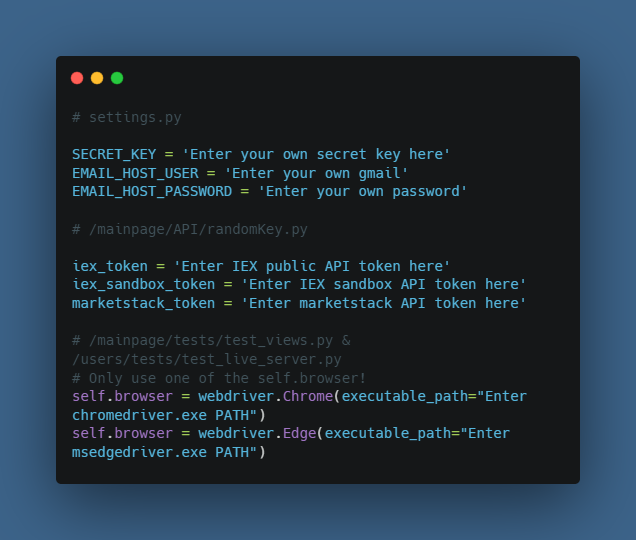
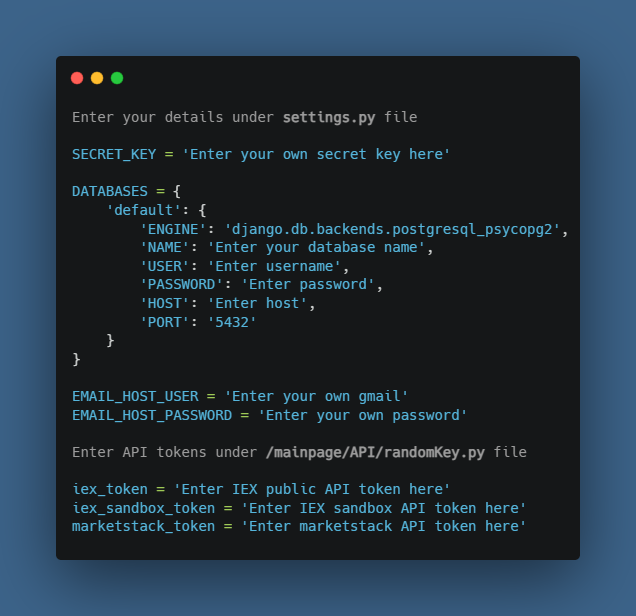
Update files for Heroku
Change credentials, update current assets, update Home template and views

Changed region(s): [[0.0896, 0.0889, 0.9261, 0.5926], [0.0896, 0.6222, 0.9261, 0.9185]]

diff --git a/mainpage/templates/mainpage/home.html b/mainpage/templates/mainpage/home.html
@@ -12,7 +12,13 @@
             <div class="holdings">
                 <div class="info">
                     <h3><i class="fa-solid fa-list-ul"></i>&nbsp;Top Holdings</h3>
-                    <p>Net Liquidity:&nbsp;<i class="fa-solid fa-dollar-sign"></i>{{ net_liquidity|floatformat:-2 }}</p>
+                    <p>Net Liquidity:&nbsp;<i class="fa-solid fa-dollar-sign"></i>
+                    {% if net_liquidity %}
+                        {{ net_liquidity|floatformat:-2 }}
+                    {% else %}
+                        0
+                    {% endif %}
+                    </p>
                 </div>
                 <div class="holdings-wrap">
                     {% if top_holdings %}

diff --git a/stockstracker/settings.py b/stockstracker/settings.py
@@ -21,11 +21,10 @@ BASE_DIR = Path(__file__).resolve().parent.parent
 # See https://docs.djangoproject.com/en/4.0/howto/deployment/checklist/
 
 # SECURITY WARNING: keep the secret key used in production secret!
-SECRET_KEY = 'django-insecure-x52^9e&h8qw!u8jahvi---aw^f#+-g^jxbf4d6wt31dh2x+88d'
+SECRET_KEY = 'Enter your own secret key here'
 
 # SECURITY WARNING: don't run with debug turned on in production!
 DEBUG = False
-
 ALLOWED_HOSTS = ['stockstracker.herokuapp.com']
 
 
@@ -79,10 +78,10 @@ WSGI_APPLICATION = 'stockstracker.wsgi.application'
 DATABASES = {
     'default': {
         'ENGINE': 'django.db.backends.postgresql_psycopg2',
-        'NAME': 'd1djkdlgtkm9gn',
-        'USER': 'irbqquuqdhwhph',
[1 lines of base64/hex data omitted]
-        'HOST': 'ec2-3-214-2-141.compute-1.amazonaws.com',
+        'NAME': '********',
+        'USER': '********',
+        'PASSWORD': '********',
+        'HOST': '********',
         'PORT': '5432'
     }
 }
@@ -159,5 +158,5 @@ EMAIL_BACKEND = 'django.core.mail.backends.smtp.EmailBackend'
 EMAIL_HOST = 'smtp.gmail.com'
 EMAIL_PORT = 587
 EMAIL_USE_TLS = True
-EMAIL_HOST_USER = 'nicholasdjango190@gmail.com'
-EMAIL_HOST_PASSWORD = 'jtcozupsqubirjib'
+EMAIL_HOST_USER = '********'
+EMAIL_HOST_PASSWORD = '*********'

diff --git a/mainpage/views.py b/mainpage/views.py
@@ -55,6 +55,7 @@ class HomeView(LoginRequiredMixin, TemplateView):
         portfolio = Portfolio.objects.filter(user_id=current_user).order_by('-current_value')
         buy_transactions = Transaction.objects.filter(user_id=current_user, transaction='BUY').order_by('-transaction_date')
         sell_transactions = Transaction.objects.filter(user_id=current_user, transaction='SELL').order_by('-transaction_date')
+        spy, nasdaq, djia = indices_performance()
         
         if not sell_transactions.exists() and not buy_transactions.exists():
             return self.empty_portfolio(context, tickers, spy, nasdaq, djia)
@@ -74,7 +75,6 @@ class HomeView(LoginRequiredMixin, TemplateView):
             portfolio, price, top_positions, current_value, percentage = ([] for i in range(5))
             net_liquidity = position_count = 0
 
-        spy, nasdaq, djia = indices_performance()
         top_holdings, allocation = self.count(position_count, top_positions, price, current_value, percentage)
         fields = [
             'tickers', 'buy_transactions', 'sell_transactions', 

diff --git a/mainpage/API/randomKey.py b/mainpage/API/randomKey.py
@@ -1,3 +1,3 @@
-iex_token = 'pk_f59e0c0ff4e34b9fa316ee1eeee11462'
-iex_sandbox_token = 'Tpk_335f616b3515426388579d7bc9ede363'
-marketstack_token = '6f0a6ec2e07afe990d5675957ee51947'
+iex_token = 'Enter IEX public API token here'
+iex_sandbox_token = 'Enter IEX sandbox API token here'
+marketstack_token = 'Enter marketstack API token here'
